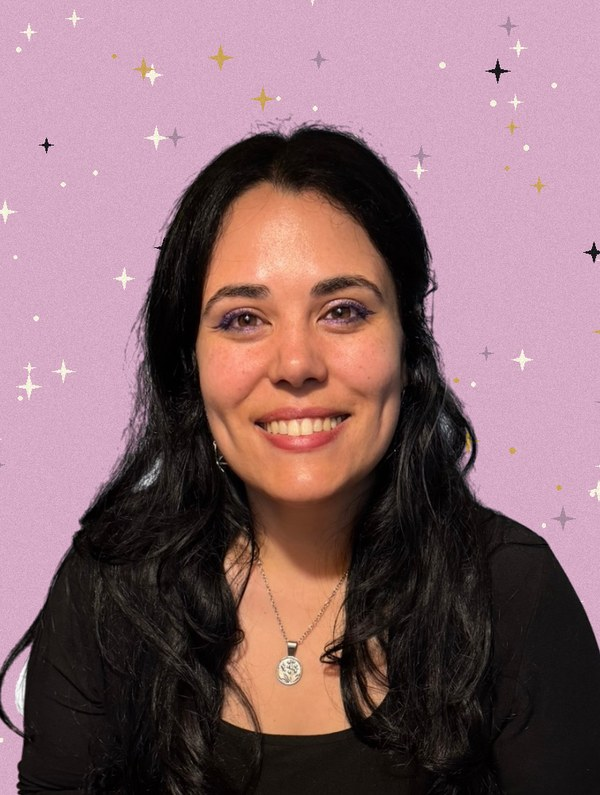
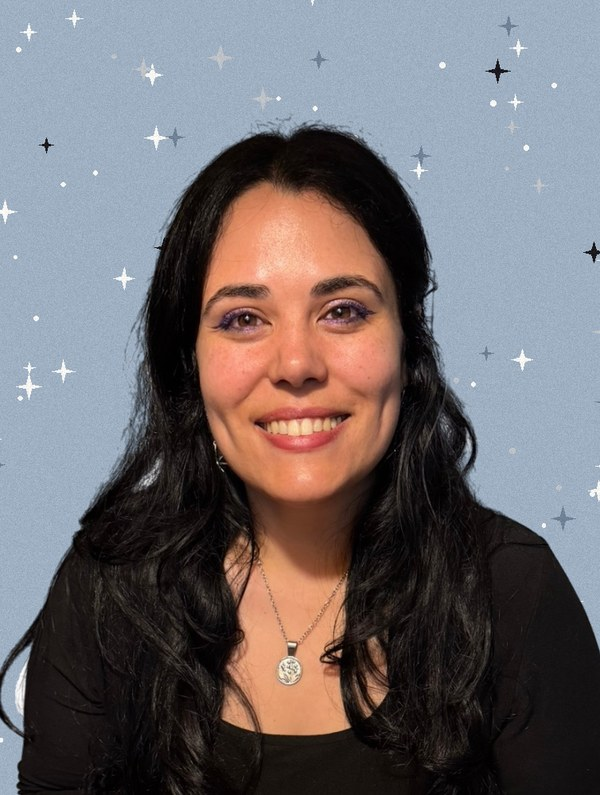
Acentos en azul gris frío en lugar de rosa
Claude-Session: https://claude.ai/code/session_01Hf8HaJAqHLkPF4gD15TPMn

diff --git a/index.html b/index.html
@@ -12,7 +12,7 @@
   <link rel="preconnect" href="https://fonts.googleapis.com">
   <link rel="preconnect" href="https://fonts.gstatic.com" crossorigin>
   <link href="https://fonts.googleapis.com/css2?family=Archivo+Narrow:wght@600;700&family=Borel&family=Courier+Prime:wght@400;700&family=Sacramento&display=swap" rel="stylesheet">
-  <link rel="stylesheet" href="styles.css?v=202610122305">
+  <link rel="stylesheet" href="styles.css?v=202610122309">
 </head>
 <body>
 
@@ -91,14 +91,14 @@
               <path d="M36 268 V118 A74 74 0 0 1 184 118 V268 Z" fill="#161616"/>
               <path d="M128 70 a26 26 0 1 0 22 44 a20 20 0 1 1 -22 -44z" fill="#F7F6F3"/>
               <g fill="#F5F2DF"><circle cx="70" cy="100" r="2.4"/><circle cx="92" cy="170" r="2"/><circle cx="150" cy="200" r="2.4"/><circle cx="62" cy="226" r="1.8"/><circle cx="160" cy="150" r="1.6"/></g>
-              <path d="M78 140 l3 8 8 3 -8 3 -3 8 -3 -8 -8 -3 8 -3z" fill="#CFADC4"/>
+              <path d="M78 140 l3 8 8 3 -8 3 -3 8 -3 -8 -8 -3 8 -3z" fill="#9FB0C2"/>
               <!-- marco de madera oscura -->
               <path class="trazo madera" d="M26 278 V116 A84 84 0 0 1 194 116 V278 Z M36 268 V118 A74 74 0 0 1 184 118 V268 Z" fill-rule="evenodd" stroke-width="3"/>
               <path class="trazo" d="M110 36 V268 M36 178 H184" stroke="#141312" stroke-width="7"/>
               <path class="trazo madera" d="M14 276 H206 V292 H14 Z" stroke-width="3"/>
               <!-- cortinas lila -->
-              <path class="trazo" d="M18 40 Q60 30 70 44 Q58 120 66 200 Q48 214 40 290 L18 290 Z" fill="#CFADC4" stroke-width="3"/>
-              <path class="trazo" d="M202 40 Q160 30 150 44 Q162 120 154 200 Q172 214 180 290 L202 290 Z" fill="#CFADC4" stroke-width="3"/>
+              <path class="trazo" d="M18 40 Q60 30 70 44 Q58 120 66 200 Q48 214 40 290 L18 290 Z" fill="#9FB0C2" stroke-width="3"/>
+              <path class="trazo" d="M202 40 Q160 30 150 44 Q162 120 154 200 Q172 214 180 290 L202 290 Z" fill="#9FB0C2" stroke-width="3"/>
               <path class="trazo" d="M34 70 Q30 150 30 270 M186 70 Q190 150 190 270" stroke-width="1.4" opacity=".6"/>
               <path class="trazo" d="M8 40 H212" stroke-width="4"/>
               <circle cx="8" cy="40" r="6" fill="#BFC2C7" class="trazo" stroke-width="2"/><circle cx="212" cy="40" r="6" fill="#BFC2C7" class="trazo" stroke-width="2"/>
@@ -145,7 +145,7 @@
               <path class="trazo" d="M64 34 H186 V48 H64 Z" fill="#161616" stroke-width="2.4"/>
               <path class="trazo" d="M72 20 H178 V34 H72 Z" fill="#161616" stroke-width="2.4"/>
               <path d="M150 20 h10 v14 h-10z" fill="#F5F2DF"/>
-              <path d="M110 34 h14 v14 h-14z" fill="#D7ABC6"/>
+              <path d="M110 34 h14 v14 h-14z" fill="#C4CFDB"/>
               <!-- lamparita de escritorio: se enciende al entrar -->
               <g class="trazo" stroke-width="2.6">
                 <path d="M222 48 Q240 38 258 48 Z" fill="#161616"/>
@@ -160,7 +160,7 @@
               <path d="M300 0 L302 8 M312 -6 L312.6 2 M324 2 L322 10" stroke="#161616" stroke-width="5" stroke-linecap="round"/>
               <path d="M301 6 L307 28" stroke="#BFC2C7" stroke-width="3" stroke-linecap="round"/>
               <path d="M312.6 2 L314 28" stroke="#979B82" stroke-width="3" stroke-linecap="round"/>
-              <path d="M322 9 L318.6 28" stroke="#CFADC4" stroke-width="3" stroke-linecap="round"/>
+              <path d="M322 9 L318.6 28" stroke="#9FB0C2" stroke-width="3" stroke-linecap="round"/>
               <path class="trazo" d="M290 22 H336 L332 48 H294 Z" fill="#161616" stroke-width="2.6"/>
               <path class="trazo" d="M335 28 q14 2 10 12 q-3 6 -11 5" stroke-width="2.6"/>
               <path d="M300 30 v6 M305 30 v3" stroke="#F5F2DF" stroke-width="1.6" stroke-linecap="round"/>
@@ -216,22 +216,22 @@
               <!-- A2: hoja de stickers -->
               <g transform="rotate(-4 99 74)">
                 <rect class="trazo" x="80" y="52" width="38" height="44" rx="2" fill="#F5F2DF" stroke-width="2"/>
-                <path class="trazo" d="M90 67 c-7 -5 -3 -11 0 -6 c3 -5 7 1 0 6 z" fill="#CFADC4" stroke-width="1.2"/>
+                <path class="trazo" d="M90 67 c-7 -5 -3 -11 0 -6 c3 -5 7 1 0 6 z" fill="#9FB0C2" stroke-width="1.2"/>
                 <path class="trazo" d="M107 58 l1.6 4 4 .4 -3 2.6 1 4 -3.6 -2 -3.6 2 1 -4 -3 -2.6 4 -.4 z" fill="#BFC2C7" stroke-width="1"/>
                 <path d="M88 86 L89 79 L92 83 H97 L100 79 L101 86 Q101 90 94.5 90 Q88 90 88 86 Z" fill="#161616"/>
                 <path class="trazo" d="M111 79 a6 6 0 1 0 3 9 a4.6 4.6 0 1 1 -3 -9 z" fill="#BFC2C7" stroke-width="1"/>
               </g>
               <!-- A3: hongo de clay -->
               <rect class="trazo" x="152" y="78" width="12" height="19" rx="3" fill="#F5F2DF" stroke-width="2"/>
-              <path class="trazo" d="M139 80 Q158 50 177 80 Z" fill="#D7ABC6" stroke-width="2"/>
+              <path class="trazo" d="M139 80 Q158 50 177 80 Z" fill="#C4CFDB" stroke-width="2"/>
               <g fill="#F5F2DF"><circle cx="151" cy="71" r="2.6"/><circle cx="162" cy="65" r="2"/><circle cx="169" cy="74" r="2.2"/></g>
 
               <!-- B1: florerito -->
               <path d="M28 120 q-2 -8 -7 -12 M28 120 q3 -8 8 -10" stroke="#979B82" stroke-width="2.2" fill="none" stroke-linecap="round"/>
               <ellipse cx="21" cy="108" rx="3" ry="2" fill="#979B82"/><ellipse cx="36" cy="110" rx="3" ry="2" fill="#979B82"/>
-              <path class="trazo" d="M22 147 Q15 133 24 127 V121 H32 V127 Q41 133 34 147 Z" fill="#D7ABC6" stroke-width="2"/>
+              <path class="trazo" d="M22 147 Q15 133 24 127 V121 H32 V127 Q41 133 34 147 Z" fill="#C4CFDB" stroke-width="2"/>
               <!-- B2: sticker de corazón -->
-              <path class="trazo" d="M73 141 C57 130 60 114 70 118 Q73 120 73 124 Q73 120 76 118 C86 114 89 130 73 141 Z" fill="#CFADC4" stroke-width="2" transform="rotate(-8 73 128)"/>
+              <path class="trazo" d="M73 141 C57 130 60 114 70 118 Q73 120 73 124 Q73 120 76 118 C86 114 89 130 73 141 Z" fill="#9FB0C2" stroke-width="2" transform="rotate(-8 73 128)"/>
               <!-- B3: frasquito -->
               <rect class="trazo" x="112" y="122" width="22" height="25" rx="4" fill="#BFC2C7" stroke-width="2"/>
               <rect class="trazo" x="110" y="117" width="26" height="7" rx="1.5" fill="#141312" stroke-width="2"/>
@@ -242,37 +242,37 @@
               <!-- C1: tarjetita de luna & friends -->
               <g transform="rotate(-3 49 198)">
                 <rect class="trazo" x="20" y="170" width="58" height="56" fill="#F5F2DF" stroke-width="2"/>
-                <path d="M28 181 q6 -5 12 0 t12 0 t12 0" fill="none" stroke="#CFADC4" stroke-width="2.6" stroke-linecap="round"/>
+                <path d="M28 181 q6 -5 12 0 t12 0 t12 0" fill="none" stroke="#9FB0C2" stroke-width="2.6" stroke-linecap="round"/>
                 <path d="M36 205 L38 189 L43 197 H55 L60 189 L62 205 Q62 213 49 213 Q36 213 36 205 Z" fill="#161616"/>
                 <ellipse cx="44" cy="204" rx="3.2" ry="2" fill="#CBA455"/><ellipse cx="54" cy="204" rx="3.2" ry="2" fill="#CBA455"/>
               </g>
               <!-- C2: paquetitos de stickers -->
               <rect class="trazo" x="95" y="188" width="30" height="38" fill="#979B82" stroke-width="2" transform="rotate(-7 110 207)"/>
               <rect class="trazo" x="103" y="184" width="30" height="43" fill="#F5F2DF" stroke-width="2"/>
-              <path class="trazo" d="M118 205 c-7 -5 -3 -11 0 -6 c3 -5 7 1 0 6 z" fill="#CFADC4" stroke-width="1.2"/>
+              <path class="trazo" d="M118 205 c-7 -5 -3 -11 0 -6 c3 -5 7 1 0 6 z" fill="#9FB0C2" stroke-width="1.2"/>
               <path d="M106 191 H130" stroke="#BFC2C7" stroke-width="3"/>
               <!-- C3: luna de clay -->
               <path class="trazo" d="M170 184 A21 21 0 1 0 172 226 A16 16 0 1 1 170 184 Z" fill="#BFC2C7" stroke-width="2"/>
               <path d="M150 204 v4 M153 210 v3" stroke="#1C1A1E" stroke-width="1.4" stroke-linecap="round"/>
 
               <!-- D1: posavasos de gatito -->
-              <circle class="trazo" cx="35" cy="270" r="15" fill="#CFADC4" stroke-width="2"/>
+              <circle class="trazo" cx="35" cy="270" r="15" fill="#9FB0C2" stroke-width="2"/>
               <path d="M27 274 L28 263 L32 268 H38 L42 263 L43 274 Q43 279 35 279 Q27 279 27 274 Z" fill="#161616"/>
               <!-- D2: tacita -->
               <ellipse class="trazo" cx="88" cy="285" rx="19" ry="3.4" fill="#F5F2DF" stroke-width="1.8"/>
               <path class="trazo" d="M100 266 q9 1 6 10 q-2 4 -8 4" stroke-width="2"/>
-              <path class="trazo" d="M76 261 H100 L97 284 H79 Z" fill="#D7ABC6" stroke-width="2"/>
+              <path class="trazo" d="M76 261 H100 L97 284 H79 Z" fill="#C4CFDB" stroke-width="2"/>
               <path d="M81 266 v5 M85 266 v3" stroke="#1C1A1E" stroke-width="1.4" stroke-linecap="round"/>
               <!-- D3: platito con anillos -->
               <ellipse class="trazo" cx="154" cy="280" rx="27" ry="7" fill="#979B82" stroke-width="2"/>
               <ellipse cx="154" cy="279" rx="19" ry="4" fill="#B3B69D"/>
               <circle cx="146" cy="276" r="4" fill="none" stroke="#BFC2C7" stroke-width="2.2"/>
               <circle cx="157" cy="277" r="3.4" fill="none" stroke="#BFC2C7" stroke-width="2.2"/>
-              <path class="trazo" d="M166 278 c-5 -4 -2 -8 0 -4 c2 -4 5 0 0 4 z" fill="#CFADC4" stroke-width="1.2"/>
+              <path class="trazo" d="M166 278 c-5 -4 -2 -8 0 -4 c2 -4 5 0 0 4 z" fill="#9FB0C2" stroke-width="1.2"/>
 
               <!-- E1: cinta washi -->
-              <path class="trazo" d="M44 347 H70 L66 340 H48" fill="#CFADC4" stroke-width="1.8"/>
-              <circle class="trazo" cx="44" cy="330" r="17" fill="#CFADC4" stroke-width="2"/>
+              <path class="trazo" d="M44 347 H70 L66 340 H48" fill="#9FB0C2" stroke-width="1.8"/>
+              <circle class="trazo" cx="44" cy="330" r="17" fill="#9FB0C2" stroke-width="2"/>
               <circle class="trazo" cx="44" cy="330" r="8" fill="#35302E" stroke-width="2"/>
               <path d="M32 326 q2 -6 6 -8" stroke="#F5F2DF" stroke-width="1.8" fill="none" stroke-linecap="round"/>
               <!-- E2: libretita negra -->
@@ -368,8 +368,8 @@
     <button class="volver letra" type="button" data-cerrar-tienda data-t="cerrarTienda">cerrar la vitrina</button>
   </div>
 
-  <script src="cinta.js?v=202610122305"></script>
-  <script src="content.js?v=202610122305"></script>
-  <script src="script.js?v=202610122305"></script>
+  <script src="cinta.js?v=202610122309"></script>
+  <script src="content.js?v=202610122309"></script>
+  <script src="script.js?v=202610122309"></script>
 </body>
 </html>

diff --git a/script.js b/script.js
@@ -142,8 +142,8 @@
         <path d="M42 66 Q20 58 16 40 Q36 44 42 66 Z" fill="#979B82"/>
         <path d="M76 62 Q98 56 104 38 Q84 40 76 62 Z" fill="#979B82"/>
         <path d="M60 46 Q46 34 50 16 Q62 28 60 46 Z" fill="#979B82"/>
-        <path d="M28 32 Q22 18 34 12 Q44 18 36 32 Z" fill="#D7ABC6"/>
-        <path d="M88 24 Q86 10 98 8 Q104 20 94 28 Z" fill="#CFADC4"/>
+        <path d="M28 32 Q22 18 34 12 Q44 18 36 32 Z" fill="#C4CFDB"/>
+        <path d="M88 24 Q86 10 98 8 Q104 20 94 28 Z" fill="#9FB0C2"/>
       </g>
       <g class="trazo" stroke-width="1"><path d="M40 64 L22 44 M78 60 L98 42 M59 44 L52 22"/></g>
       <path class="trazo" d="M48 108 H72 V118 C96 130 100 170 88 186 Q60 200 32 186 C20 170 24 130 48 118 Z" fill="#161616" stroke-width="2.6"/>
@@ -471,7 +471,7 @@
   const dibujosCajon = {
     clay: `<svg viewBox="0 0 90 60" aria-hidden="true">
       <rect class="trazo" x="50" y="34" width="10" height="20" rx="3" fill="#F5F2DF" stroke-width="2"/>
-      <path class="trazo" d="M40 36 Q55 12 70 36 Z" fill="#D7ABC6" stroke-width="2"/>
+      <path class="trazo" d="M40 36 Q55 12 70 36 Z" fill="#C4CFDB" stroke-width="2"/>
       <g fill="#F5F2DF"><circle cx="50" cy="28" r="2.2"/><circle cx="58" cy="24" r="1.8"/><circle cx="63" cy="31" r="1.8"/></g>
       <path d="M32 50 q7 -2 5 -9" fill="none" stroke="#161616" stroke-width="2.2" stroke-linecap="round"/>
       <path d="M24 38 L19 55 H32 L28 38 Z" fill="#161616"/>
@@ -481,19 +481,19 @@
     stickers: `<svg viewBox="0 0 90 60" aria-hidden="true">
       <g transform="rotate(-5 45 30)">
         <rect class="trazo" x="26" y="6" width="40" height="50" rx="2" fill="#F5F2DF" stroke-width="2"/>
-        <path class="trazo" d="M37 24 c-8 -6 -3 -12 0 -7 c3 -5 8 1 0 7 z" fill="#CFADC4" stroke-width="1.2"/>
+        <path class="trazo" d="M37 24 c-8 -6 -3 -12 0 -7 c3 -5 8 1 0 7 z" fill="#9FB0C2" stroke-width="1.2"/>
         <path class="trazo" d="M55 13 l1.8 4.4 4.6 .4 -3.4 3 1 4.6 -4 -2.4 -4 2.4 1 -4.6 -3.4 -3 4.6 -.4 z" fill="#BFC2C7" stroke-width="1"/>
         <path d="M33 47 L34 39 L37 43 H43 L46 39 L47 47 Q47 51 40 51 Q33 51 33 47 Z" fill="#161616"/>
         <path class="trazo" d="M57 38 a6 6 0 1 0 3 10 a4.6 4.6 0 1 1 -3 -10 z" fill="#BFC2C7" stroke-width="1"/>
       </g>
     </svg>`,
     mas: `<svg viewBox="0 0 90 60" aria-hidden="true">
-      <path class="trazo" d="M30 54 H52 L48 48 H32" fill="#CFADC4" stroke-width="1.8"/>
-      <circle class="trazo" cx="30" cy="38" r="16" fill="#CFADC4" stroke-width="2"/>
+      <path class="trazo" d="M30 54 H52 L48 48 H32" fill="#9FB0C2" stroke-width="1.8"/>
+      <circle class="trazo" cx="30" cy="38" r="16" fill="#9FB0C2" stroke-width="2"/>
       <circle class="trazo" cx="30" cy="38" r="7" fill="#35302E" stroke-width="2"/>
       <g transform="rotate(6 66 32)">
         <rect class="trazo" x="54" y="14" width="26" height="36" fill="#F5F2DF" stroke-width="2"/>
-        <path d="M58 21 q4 -3 8 0 t8 0" fill="none" stroke="#CFADC4" stroke-width="2" stroke-linecap="round"/>
+        <path d="M58 21 q4 -3 8 0 t8 0" fill="none" stroke="#9FB0C2" stroke-width="2" stroke-linecap="round"/>
         <path d="M60 41 L61 33 L64 37 H70 L73 33 L74 41 Q74 45 67 45 Q60 45 60 41 Z" fill="#161616"/>
       </g>
     </svg>`

diff --git a/styles.css b/styles.css
@@ -5,12 +5,12 @@
   --plata: #BFC2C7;
   --plata-clara: #ECEEF0;
   --plata-oscura: #6E727A;
-  --lila: #CFADC4;           /* las letras de luna & friends */
-  --lila-honda: #A88A9F;
+  --lila: #9FB0C2;            /* acento: azul gris frío */
+  --lila-honda: #6F8195;
   --negro: #161616;          /* Luna */
   --mostaza: #CBA455;        /* los ojos de Luna */
   --salvia: #979B82;         /* las hojas de la rosa */
-  --rosa: #D7ABC6;
+  --rosa: #C4CFDB;
   --madera: #2A2725;         /* madera oscura */
   --madera-honda: #141312;
 
@@ -19,7 +19,7 @@
   --grafito: #7D7570;        /* lápiz */
 
   /* LETRAS DEL SITIO: una para cada cosa
-     --f-letra   → títulos y frases grandes: se dibujan con cinta.js (trazo rosa con contorno negro);
+     --f-letra   → títulos y frases grandes: se dibujan con cinta.js (trazo azul gris con contorno negro);
                    esta fuente solo se ve un instante mientras carga
      --f-cursiva → notas a mano, firmas, pies de foto
      --f-texto   → todo el texto normal: descripciones, escritos, precios, fechas (máquina de escribir)
@@ -454,7 +454,7 @@ a.sticker-red:hover, a.sticker-red:focus-visible { transform: scale(1.08) rotate
 .estampita .usuario-red { display: none; }
 .estampita .nombre-red { position: absolute; width: 1px; height: 1px; overflow: hidden; clip: rect(0 0 0 0); }
 .estampita .usuario-red:empty { display: none; }
-.red-instagram.estampita { background: #EBD9E4; }
+.red-instagram.estampita { background: #DCE3EB; }
 .red-youtube.estampita { background: #ECEEF0; }
 a.estampita:hover { border-style: solid; }
 
@@ -609,7 +609,7 @@ a.estampita:hover { border-style: solid; }
 .foto::after {
   content: ""; position: absolute; top: -8px; left: 50%; width: 46%; height: 15px;
   transform: translateX(-50%) rotate(-4deg);
-  background-color: rgba(207,173,196,.6);
+  background-color: rgba(159,176,194,.6);
   background-image: var(--grano-claro);
 }
 .foto.pendiente {

diff --git a/content.js b/content.js
@@ -90,7 +90,7 @@ const GAVETAS = [
     tipo: "perfil",
     items: [
       {
-        imagen: "img/elena.jpg",
+        imagen: "img/elena.jpg?v=202610122309",
         pie: { es: "yo, cuando me río", en: "me, when I laugh" },
         texto: {
           es: "¡Hola! Me llamo Elena Brutau. Desde pequeña he estado obsesionada con plasmar mi vida en libretas.\n\nCuando me fui de Cuba a México a los 17, lo único que me llevé fueron mis diarios. Hice lo mismo nueve años más tarde, cuando vine a vivir a Estados Unidos.\n\nA esa obsesión temprana se le han sumado algunas nuevas: escribir historias, el polymer clay y hacer stickers (además del café, los libros y mis four cat babies: Tom, Ash, Luna y Félix, por supuesto).\n\nEsta página no solo agrupa todas mis obsesiones: también me permite compartirlas con ustedes, mis fellow journal friends.",
